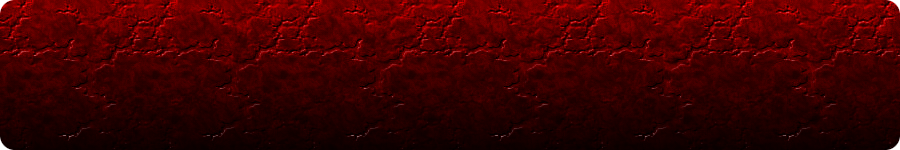
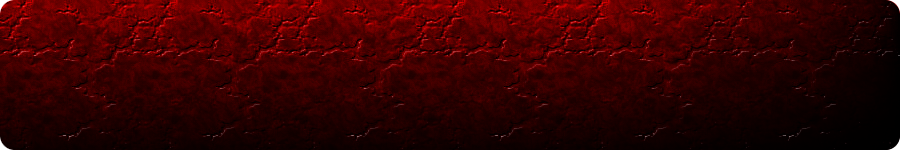
Building up the level editor UI and showing cursor on screen

Changed region(s): [[0.7467, 0.0, 1.0, 0.96], [0.7467, 0.4267, 0.7778, 0.4533]]

diff --git a/src/level_editor.c b/src/level_editor.c
@@ -309,19 +309,25 @@ void level_editor_update() {
 void level_editor_draw() {
 	// Get the zoom vector once and never again
 	GFC_Vector2D zoom = main_camera_get_zoom();
+	GFC_Vector2D screen_res_offset = gf2d_graphics_get_resolution();
+	gfc_vector2d_scale_by(screen_res_offset, screen_res_offset, gfc_vector2d(0.5, 0.5));
 	
 	// Draw the background with parallax effect in
-	GFC_Vector2D bg_center = gfc_vector2d(editor.background->frame_w * 0.5, editor.background->frame_h * 0.5);
-	GFC_Vector2D fg_center = gfc_vector2d(editor.foreground->frame_w * 0.5, editor.foreground->frame_h * 0.5);
-	gfc_vector2d_scale_by(bg_center, bg_center, gfc_vector2d(PARALLAX_FACTOR, PARALLAX_FACTOR));
-	gfc_vector2d_scale_by(fg_center, fg_center, gfc_vector2d(PARALLAX_FACTOR, PARALLAX_FACTOR));
-	bg_center = main_camera_calc_drawpos(bg_center);
-	fg_center = main_camera_calc_drawpos(fg_center);
+	GFC_Vector2D bg_center_pos = gfc_vector2d(editor.background->frame_w * 0.5, editor.background->frame_h * 0.5);
+	GFC_Vector2D fg_center_pos = gfc_vector2d(editor.foreground->frame_w * 0.5, editor.foreground->frame_h * 0.5);	
+	GFC_Vector2D bg_center = {0};
+	GFC_Vector2D fg_center = {0};
+	gfc_vector2d_add(bg_center, bg_center, main_camera_get_offset());
+	gfc_vector2d_scale_by(bg_center, bg_center, gfc_vector2d(zoom.x * PARALLAX_FACTOR, zoom.y * PARALLAX_FACTOR));
+	gfc_vector2d_add(bg_center, bg_center, screen_res_offset);
+	gfc_vector2d_add(fg_center, fg_center, main_camera_get_offset());
+	gfc_vector2d_scale_by(fg_center, fg_center, gfc_vector2d(zoom.x * 2 * PARALLAX_FACTOR, zoom.y * 2 * PARALLAX_FACTOR));
+	gfc_vector2d_add(fg_center, fg_center, screen_res_offset);
 
 	gf2d_sprite_draw(editor.background,
 			bg_center,
 			&zoom,
-			NULL,
+			&bg_center_pos,
 			NULL,
 			NULL,
 			NULL,
@@ -329,7 +335,7 @@ void level_editor_draw() {
 	gf2d_sprite_draw(editor.foreground,
 			fg_center,
 			&zoom,
-			NULL,
+			&fg_center_pos,
 			NULL,
 			NULL,
 			NULL,
@@ -359,6 +365,22 @@ void level_editor_draw() {
 					frame);
 		}
 	}
+
+	// Draw the cursor position
+	int x, y, mouse_press = SDL_GetMouseState(&x, &y);	
+	GFC_Rect r = {0};
+	r.w = 64 * zoom.x;
+	r.h = 64 * zoom.y;
+	GFC_Vector2D cursor_pos = gfc_vector2d(x, y);
+	cursor_pos = main_camera_screenpos_to_worldpos(cursor_pos);
+	cursor_pos.x = (int)(cursor_pos.x / 64);
+	cursor_pos.y = (int)(cursor_pos.y / 64);
+	cursor_pos.x = ((cursor_pos.x < 0) ? 0 : ((cursor_pos.x >= editor.map_size.x) ? editor.map_size.x - 1 : cursor_pos.x)) * 64;
+	cursor_pos.y = ((cursor_pos.y < 0) ? 0 : ((cursor_pos.y >= editor.map_size.y) ? editor.map_size.y - 1 : cursor_pos.y)) * 64;
+	cursor_pos = main_camera_calc_drawpos(cursor_pos);
+	r.x = cursor_pos.x;
+	r.y = cursor_pos.y;
+	gf2d_draw_rect(r, GFC_COLOR_YELLOW);
 }
 
 void level_editor_inc_selection() {

diff --git a/src/game.c b/src/game.c
@@ -119,8 +119,12 @@ int main(int argc, char * argv[])
     TTF_Init(); // Initialize the font system and queue quitting for exit
     atexit(TTF_Quit);
     ui_system_initialize();
-    Window *win = ui_system_load_window("def/ui/level_editor.def");
-    win->_active = 1;
+    if (OPEN_LEVEL_EDITOR) {
+    	Window *win = ui_system_load_window("def/ui/level_editor.def");
+    	win->_active = 1;
+	win = ui_system_load_window("def/ui/tile_editor.def");
+	win->_active = 1;
+    }
     
     World *world;
     // Making a simple world and player
